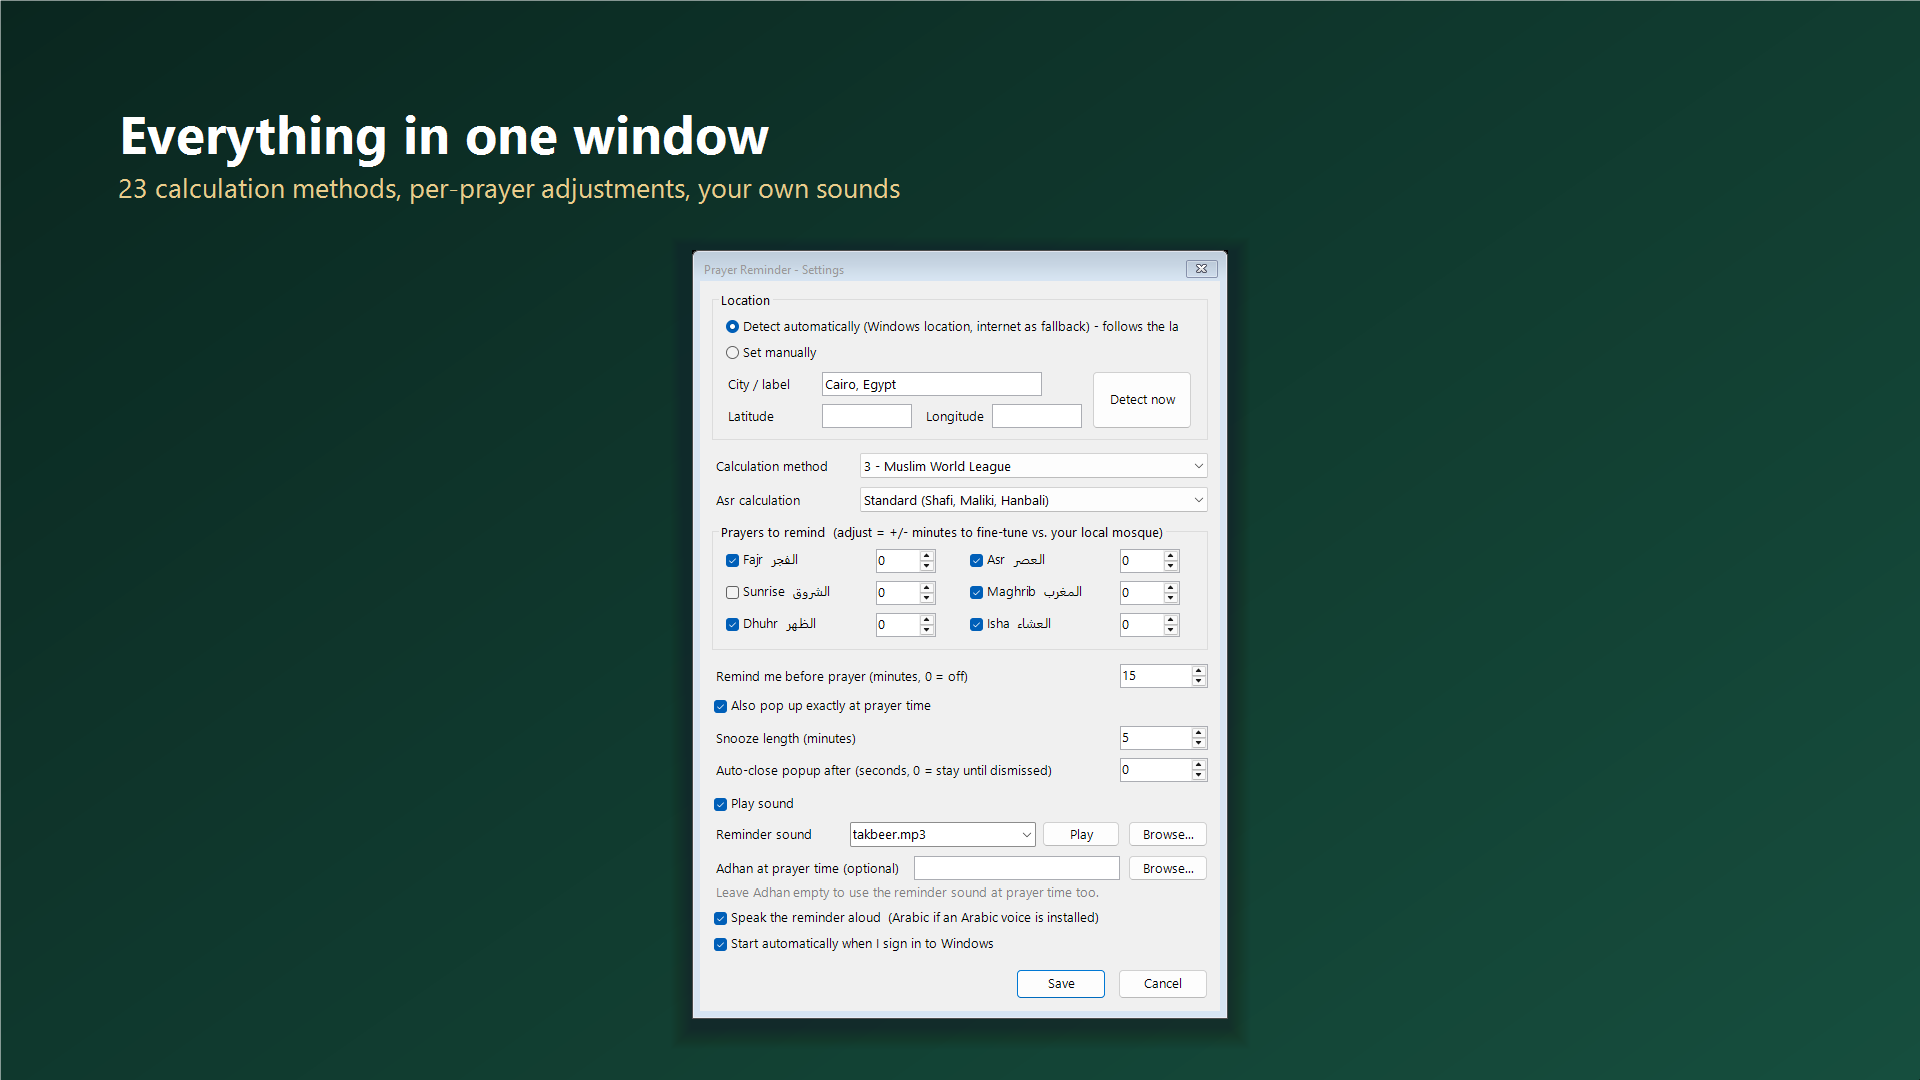
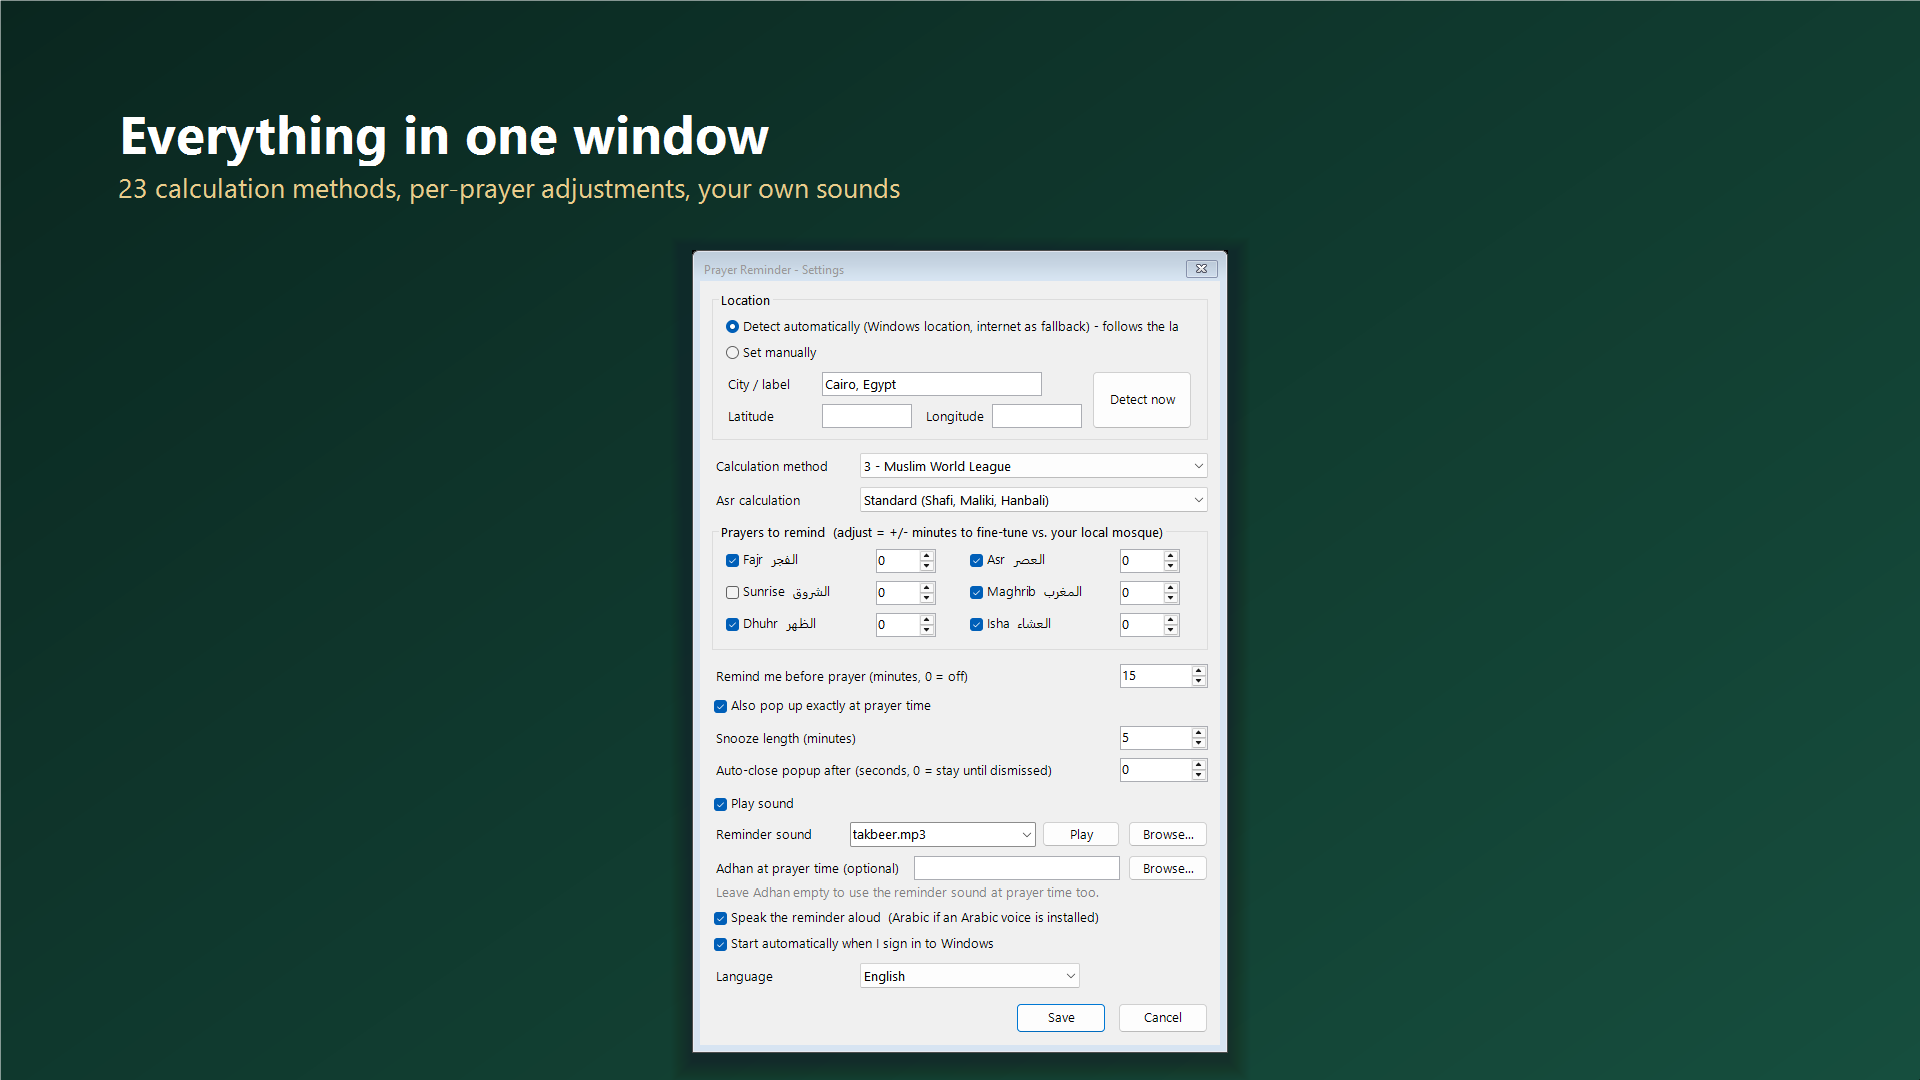
Add a full Arabic interface, right to left
The Store name is Arabic, so the window should be too. Every string now comes
from a table with en/ar entries, including the 23 calculation method names.
WinForms mirrors the absolutely-positioned controls once RightToLeftLayout is
set, so both the popup and the Settings window flip as a whole.

Language follows the Windows UI language by default and can be set to العربية
or English in Settings. Changing it switches the tray menu and popups straight
away; the Settings window itself picks it up on the next start.

Arabic counted nouns are not a simple plural, so durations go through
Get-Duration: 1 is singular, 2 dual, 3-10 plural, 11+ singular again. Without
it a five-minute snooze read "5 دقيقة".

Also:
- make-screenshots.ps1 takes -Lang ar and writes the RTL set the Arabic Store
  listing needs
- installer.iss defined AppVersion unconditionally, which overrode the /D flag
  from build.ps1, so every installer was stamped 1.0.0 regardless of the
  version passed

Changed region(s): [[0.3438, 0.8861, 0.6562, 0.9778]]

diff --git a/store/listing.md b/store/listing.md
@@ -35,6 +35,7 @@ WHAT IT DOES
 • Reminds you before Fajr, Dhuhr, Asr, Maghrib and Isha - 15 minutes ahead by default, or any gap you choose
 • Pops up again at the exact prayer time
 • Plays a short takbeer, a Windows sound, or any audio file you choose - including your own Adhan recording
+• Full Arabic interface, right-to-left, following your Windows language or set by hand
 • Can speak the reminder aloud, in Arabic when an Arabic voice is installed in Windows
 • Finds your location automatically and follows your laptop when you travel, or set your coordinates by hand
 • Shows today's times, and the time remaining until the next prayer, right from the tray icon
@@ -76,6 +77,7 @@ First release.
 Popup reminder before every prayer
 A second popup at the exact prayer time
 Takbeer, Windows sound, or your own Adhan file
+Full Arabic interface, right-to-left
 Spoken reminder, in Arabic when available
 Automatic location that follows your laptop
 23 calculation methods and Hanafi or Standard Asr
@@ -141,6 +143,7 @@ In Partner Center → **Store listings** → **Add a language** → Arabic, then
 • تنبيه قبل الفجر والظهر والعصر والمغرب والعشاء — قبل ١٥ دقيقة افتراضيًا، أو أي مدة تختارها
 • تنبيه آخر عند دخول وقت الصلاة تمامًا
 • تشغيل تكبير قصير، أو صوت من أصوات ويندوز، أو أي ملف صوتي تختاره — بما في ذلك أذان بصوت من تفضّل
+• واجهة عربية كاملة من اليمين إلى اليسار، تتبع لغة ويندوز تلقائيًا ويمكن تغييرها من الإعدادات
 • نطق التذكير بصوت مسموع بالعربية عند تثبيت صوت عربي في ويندوز
 • تحديد موقعك تلقائيًا ومتابعة الحاسوب أثناء السفر، أو إدخال الإحداثيات يدويًا
 • عرض مواقيت اليوم والوقت المتبقي للصلاة القادمة من أيقونة شريط المهام
@@ -220,6 +223,9 @@ https://github.com/YRamzy993/prayer-reminder
 | Screenshot 2 | `assets/store-screenshots/02-prayer-time.png` |
 | Screenshot 3 | `assets/store-screenshots/03-settings.png` |
 | Store logo (300×300) | `assets/msix/StoreListing-300x300.png` |
+
+For the **Arabic** listing use the right-to-left set instead, which shows the app's own
+Arabic interface: `assets/store-screenshots-ar/`.
 
 ## Age rating questionnaire
 

diff --git a/README.md b/README.md
@@ -22,6 +22,7 @@ is per-user, so Windows does not ask for administrator rights.
 ## What it does
 
 - 🕌 A popup before each prayer (15 minutes by default) and another at the exact time
+- 🌍 Full **Arabic** and English interface — right-to-left, following your Windows language
 - 🔊 Plays a takbeer, a Windows sound, or any audio file you choose
 - 🗣 Optionally says the reminder aloud, in Arabic when an Arabic voice is installed
 - 📍 Finds your location automatically and follows the laptop when you travel
@@ -49,6 +50,7 @@ Everything is in one window: right-click the tray icon → **Settings…**
 | Adhan at prayer time | Optional full Adhan file, used only for the on-time popup |
 | Speak aloud | Says which prayer it is, in Arabic if available |
 | Start with Windows | On by default |
+| Language | Automatic (follows Windows), العربية, or English |
 
 ### Arabic voice
 
@@ -100,6 +102,7 @@ winget install JRSoftware.InnoSetup
 .\build\build.ps1 -Version 1.0.0        # dist\PrayerReminder.exe + the installer
 .\build\build-msix.ps1 -SelfSign        # dist\*.msix, for the Microsoft Store
 .\build\make-screenshots.ps1            # Store screenshots, rendered from the real UI
+.\build\make-screenshots.ps1 -Lang ar   # the same, in Arabic (RTL)
 ```
 
 `build-msix.ps1` downloads the ~22 MB Windows SDK build tools from nuget.org on first run,
